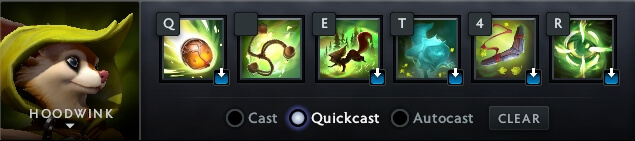
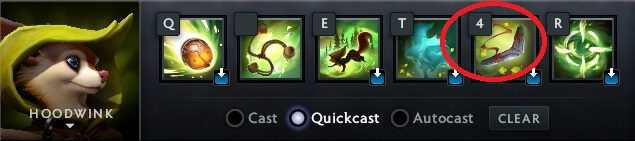
.

Changed region(s): [[0.6882, 0.0, 0.8677, 0.5957]]

diff --git a/web/main.min.css b/web/main.min.css
@@ -1,1 +1,1 @@
-.scrolldown-arrow{position:relative;margin-bottom:2rem;margin-top:0;width:24px;height:24px;border-left:3px solid #777;border-bottom:3px solid #777;animation:bounce 3.5s infinite;margin-left:auto;margin-right:auto}.scrolldown-arrow:hover{opacity:1}@keyframes bounce{0%,100%,20%,50%,80%{transform:translateX(-50%) translateY(0) rotate(-45deg)}40%{transform:translateX(-50%) translateY(.5rem) rotate(-45deg)}60%{transform:translateX(-50%) translateY(.25rem) rotate(-45deg)}}html{box-sizing:border-box;overflow-x:hidden}*,::after,::before{box-sizing:inherit}body{margin:0 auto;padding:0;-webkit-font-smoothing:antialiased;background-color:#121212;color:#e0e0e0;overflow-x:hidden;font-family:Inter}img{display:flex;border:1px solid #333;border-radius:5px;box-shadow:inset 0 -.5rem .5rem -.5rem rgba(110,110,110,.5);margin-top:4em;margin-bottom:4rem;margin-left:auto;margin-right:auto;max-width:100%}.nowrap{white-space:nowrap}.red{color:red;font-weight:600}.smaller{font-size:65%}.magnifiable{cursor:zoom-in;transition:transform .2s ease-in-out;width:inherit}.magnifiable:hover{transform:scale(1.02)}.magnify-overlay{position:fixed;top:0;left:0;width:100%;height:100%;background-color:rgba(0,0,0,.8);display:flex;justify-content:center;align-items:center;z-index:1000;opacity:0;visibility:hidden;transition:opacity .3s ease-in-out,visibility .3s ease-in-out;cursor:zoom-out}.magnify-overlay.active{opacity:1;visibility:visible}.magnify-overlay img{max-width:90%;max-height:90%;object-fit:contain;box-shadow:0 0 20px rgba(0,0,0,.7);transform:scale(.8);transition:transform .3s ease-out}.magnify-overlay.active img{transform:scale(1)}.heroicon{border:1px solid #333;box-shadow:inset 0 -.5rem .5rem -.5rem rgba(110,110,110,.5);display:inline-flex;margin-left:.5rem;margin-right:.5rem;height:36px;margin-top:0;margin-bottom:0;vertical-align:middle}.lazy-section{min-height:400px}h1{font-size:2.5rem;font-weight:600;line-height:1.2;color:gold;margin-bottom:10rem;margin-top:15rem;padding-left:10%;padding-right:10%}main{margin:0 0;padding:0 0;text-align:center;background:linear-gradient(to bottom,#121212,#212121);box-shadow:inset 0 -.5rem .5rem -.5rem rgba(0,0,0,.5)}.wrap-section-block{overflow:hidden;color:#f0f0f0;background-image:radial-gradient(circle at top center,rgba(155,155,155,.15) 0,transparent 25rem),linear-gradient(to bottom,#151515,#101010);background-repeat:no-repeat;margin:2rem auto;margin-bottom:5rem;width:calc(100% - 2%);max-width:1000px;padding-left:5em;padding-right:5em;padding-top:3em;padding-bottom:2em;border:1px solid #333;border-radius:4rem;border-top-left-radius:.75rem;border-top-right-radius:.75rem;box-shadow:0 .2rem .5rem rgba(0,0,0,.9),0 1rem 1.5rem -.5rem rgba(0,0,0,.9)}.wrap-section-block h2{font-size:2.4rem;font-weight:600;margin-top:0;margin-bottom:1.25em;color:gold;border-bottom:1px solid #333;padding-bottom:.75em}.wrap-section-block p{display:block;line-height:2em;color:#fdfdfd;align-items:baseline;text-align:left;vertical-align:baseline;flex:0 0 190px;font-size:1.1rem}.wrap-section-block ul{display:block;list-style-type:none;padding:5%;border:1px solid #33333333;box-shadow:inset 0 4px 8px rgba(0,0,0,.3);border-radius:20px;overflow:hidden;width:calc(100% - 1%);background-color:#181818;margin-top:1.5rem;margin-bottom:1.5rem;text-align:left}.wrap-section-block li{margin-bottom:1rem;margin-top:1rem;color:#fdfdfd;display:flex;align-items:baseline;text-align:left}.wrap-section-block li b{font-weight:700;flex:0 0 220px}.wrap-section-block act:first-child,.wrap-section-block kbd:first-child,.wrap-section-block kbmod:first-child,.wrap-section-block spell:first-child{margin-left:0}:root act,:root kbd,:root kbmod,:root spell{display:inline-block;border-radius:.3rem;padding:.5em .7em;margin-left:.1rem;margin-right:.1rem;font-family:monospace;line-height:1.1;box-shadow:.1rem .1rem .2rem rgba(0,0,0,.5),inset 0 .05rem .1rem rgba(255,255,255,.1);vertical-align:middle;font-size:18px}:root kbd{background-color:#161616;border:1px solid #272727;color:#00ced1;gap:1em}:root kbd:hover{background-color:#272727;border-color:#272727;cursor:pointer}:root kbmod{background-color:#161616;border:1px solid #272727;color:#00ced1;min-width:3.5em;text-align:center}:root kbmod:hover{background-color:#272727;border-color:#272727;cursor:pointer}:root act{background-color:#222242;border:1px solid #222242;border-radius:.2rem;color:#aaced1;text-align:center}:root act:hover{background-color:#323252;border-color:#222242;cursor:pointer}:root spell{background-color:#112;border:1px solid #223;border-radius:.2rem;color:#aaced1;text-align:center;margin-right:-.7rem;z-index:-10}:root spell:hover{background-color:#212132;border-color:#212132;cursor:pointer}@media (max-width:600px){:root act,:root kbd,:root kbmod,:root spell{font-size:14px}h1{font-size:2rem;margin-top:5em}.wrap-section-block{overflow:hidden;padding-left:2%;padding-right:2%;padding-top:2em;font-size:.9rem}.wrap-section-block p{overflow:hidden;padding-left:3.5%;padding-right:3.5%;font-size:14px;margin-bottom:1rem}.wrap-section-block h2{font-size:2rem}.wrap-section-block ul{overflow:scroll}.wrap-section-block li b{flex:0 0 45%;font-size:14px}img{margin-top:2rem;margin-bottom:2rem}}footer{font-size:.9em;text-align:center;color:#bdbdbd;background-color:#121212;box-shadow:inset 0 .5rem .5rem -.5rem rgba(0,0,0,.5);border-top:1px solid #333}.separator{border-top:1px solid #333}.mt1{margin-top:1em}.mt2{margin-top:2em}.mt4{margin-top:4em}.navbar{position:fixed;top:0;left:0;width:100%;height:3rem;min-height:3.25rem;background-color:#222;color:#f5f5f5;display:flex;align-items:center;justify-content:space-between;z-index:100;opacity:0;visibility:hidden;box-sizing:border-box;flex-wrap:wrap;max-width:100%;letter-spacing:.5px;padding:0 1rem}.navbar a{color:#f5f5f5;font-weight:300;text-decoration:none;display:flex;align-items:center;padding-left:1rem;padding-right:1rem;flex-shrink:1;transition:background-color .2s ease;min-width:0;height:3rem;min-height:3rem}.navbar a:hover{background-color:#333}.navbar.scrolled{opacity:1;visibility:visible}.navbar .logo{font-size:2rem;font-weight:800;color:gold;letter-spacing:-.08em;text-shadow:0 .3rem .6rem rgba(0,0,0,.5);text-decoration:none;background:0 0;border:none;padding:0;cursor:pointer;height:auto;display:flex;align-items:center}.navbar .logo:hover{color:#ff0;cursor:pointer}.navbar-links{display:flex;align-items:center}.navbar-links a{margin-left:1rem}.navbar-links a:first-child{margin-left:0}@media (max-width:600px){.navbar{justify-content:center;height:2rem;min-height:2rem;padding:0}.navbar a{font-size:1em;padding-bottom:0;padding-top:0;min-height:0;height:0}.navbar .logo{display:none}}.donate-overlay{display:none;position:fixed;top:0;left:0;width:100%;height:100%;background-color:rgba(0,0,0,.85);justify-content:center;align-items:center;z-index:9999}.donate-panel{background-color:#2a2a2a;border-radius:12px;padding:30px 20px;width:90%;max-width:420px;box-sizing:border-box;box-shadow:0 0 20px rgba(0,0,0,.5);text-align:center;display:flex;flex-direction:column;align-items:center}.donate-panel a.button{display:flex;justify-content:center;align-items:center;background-color:#fff;color:#222;text-decoration:none;padding:12px 20px;margin:15px auto 10px;border-radius:8px;font-weight:700;transition:all .2s ease;width:100%;max-width:270px;height:40px;box-sizing:border-box}.donate-panel a.button:hover{background-color:#eaeaea}.donate-panel img.qr{width:200px;height:200px;margin:10px auto 30px;display:block;border-radius:8px;object-fit:contain}@media (max-width:480px){.donate-panel img.qr{width:160px;height:160px}.donate-panel a.button{font-size:14px;padding:10px}}.table-of-contents{overflow:hidden;color:#f0f0f0;background:radial-gradient(circle at top center,rgba(155,155,155,.15) 0,transparent 25rem),linear-gradient(to bottom,#151515,#101010);margin:2rem auto 5rem;width:calc(100% - 2%);max-width:600px;padding:3em 5em 2em;border:1px solid #333;border-radius:4rem 4rem .75rem .75rem;box-shadow:0 .2rem .5rem rgba(0,0,0,.9),0 1rem 1.5rem -.5rem rgba(0,0,0,.9)}.table-of-contents h2{font-size:2.4rem;font-weight:600;margin:0 0 1.25em;color:gold;border-bottom:1px solid #333;padding-bottom:.75em}.table-of-contents p{line-height:2em;color:#fdfdfd;text-align:left;font-size:1.1rem}.table-of-contents ul{list-style:none;padding:5%;border:1px solid #3333;box-shadow:inset 0 4px 8px rgba(0,0,0,.3);border-radius:20px;background:#181818;margin:1.5rem 0}.table-of-contents li{margin:1rem 0;color:#fdfdfd;display:flex;align-items:baseline}.table-of-contents li b{font-weight:700;flex:0 0 50px}.table-of-contents li a{color:inherit;text-decoration:none}.table-of-contents li a:hover{text-decoration:underline}@media (max-width:600px){.table-of-contents{overflow:scroll;margin:2rem auto 5rem;padding:2em 1em 1em;border-radius:2rem 2rem .75rem .75rem}.table-of-contents h2{font-size:2rem}}
+.scrolldown-arrow{position:relative;margin-bottom:2rem;margin-top:0;width:24px;height:24px;border-left:3px solid #777;border-bottom:3px solid #777;animation:bounce 3.5s infinite;margin-left:auto;margin-right:auto}.scrolldown-arrow:hover{opacity:1}@keyframes bounce{0%,100%,20%,50%,80%{transform:translateX(-50%) translateY(0) rotate(-45deg)}40%{transform:translateX(-50%) translateY(.5rem) rotate(-45deg)}60%{transform:translateX(-50%) translateY(.25rem) rotate(-45deg)}}html{box-sizing:border-box;overflow-x:hidden}*,::after,::before{box-sizing:inherit}body{margin:0 auto;padding:0;-webkit-font-smoothing:antialiased;background-color:#121212;color:#e0e0e0;overflow-x:hidden;font-family:Inter}img{display:flex;border:1px solid #333;border-radius:5px;box-shadow:inset 0 -.5rem .5rem -.5rem rgba(110,110,110,.5);margin-top:4em;margin-bottom:4rem;margin-left:auto;margin-right:auto;max-width:100%}.nowrap{white-space:nowrap}.red{color:red;font-weight:600}.smaller{font-size:65%}.magnifiable{cursor:zoom-in;transition:transform .2s ease-in-out;width:inherit}.magnifiable:hover{transform:scale(1.02)}.magnify-overlay{position:fixed;top:0;left:0;width:100%;height:100%;background-color:rgba(0,0,0,.8);display:flex;justify-content:center;align-items:center;z-index:1000;opacity:0;visibility:hidden;transition:opacity .3s ease-in-out,visibility .3s ease-in-out;cursor:zoom-out}.magnify-overlay.active{opacity:1;visibility:visible}.magnify-overlay img{max-width:90%;max-height:90%;object-fit:contain;box-shadow:0 0 20px rgba(0,0,0,.7);transform:scale(.8);transition:transform .3s ease-out}.magnify-overlay.active img{transform:scale(1)}.heroicon{border:1px solid #333;box-shadow:inset 0 -.5rem .5rem -.5rem rgba(110,110,110,.5);display:inline-flex;margin-left:.5rem;height:36px;margin-top:0;margin-bottom:0;vertical-align:middle}.lazy-section{min-height:400px}h1{font-size:2.5rem;font-weight:600;line-height:1.2;color:gold;margin-bottom:10rem;margin-top:15rem;padding-left:10%;padding-right:10%}main{margin:0 0;padding:0 0;text-align:center;background:linear-gradient(to bottom,#121212,#212121);box-shadow:inset 0 -.5rem .5rem -.5rem rgba(0,0,0,.5)}.wrap-section-block{overflow:hidden;color:#f0f0f0;background-image:radial-gradient(circle at top center,rgba(155,155,155,.15) 0,transparent 25rem),linear-gradient(to bottom,#151515,#101010);background-repeat:no-repeat;margin:2rem auto;margin-bottom:5rem;width:calc(100% - 2%);max-width:1000px;padding-left:5em;padding-right:5em;padding-top:3em;padding-bottom:2em;border:1px solid #333;border-radius:4rem;border-top-left-radius:.75rem;border-top-right-radius:.75rem;box-shadow:0 .2rem .5rem rgba(0,0,0,.9),0 1rem 1.5rem -.5rem rgba(0,0,0,.9)}.wrap-section-block h2{font-size:2.4rem;font-weight:600;margin-top:0;margin-bottom:1.25em;color:gold;border-bottom:1px solid #333;padding-bottom:.75em}.wrap-section-block p{display:block;line-height:2em;color:#fdfdfd;align-items:baseline;text-align:left;vertical-align:baseline;flex:0 0 190px;font-size:1.1rem}.wrap-section-block ul{display:block;list-style-type:none;padding:5%;border:1px solid #33333333;box-shadow:inset 0 4px 8px rgba(0,0,0,.3);border-radius:20px;overflow:hidden;width:calc(100% - 1%);background-color:#181818;margin-top:1.5rem;margin-bottom:1.5rem;text-align:left}.wrap-section-block li{margin-bottom:1rem;margin-top:1rem;color:#fdfdfd;display:flex;align-items:baseline;text-align:left}.wrap-section-block li b{font-weight:700;flex:0 0 220px}.wrap-section-block act:first-child,.wrap-section-block kbd:first-child,.wrap-section-block kbmod:first-child,.wrap-section-block spell:first-child{margin-left:0}:root act,:root kbd,:root kbmod,:root spell{display:inline-block;border-radius:.3rem;padding:.5em .7em;margin-left:.1rem;margin-right:.1rem;font-family:monospace;line-height:1.1;box-shadow:.1rem .1rem .2rem rgba(0,0,0,.5),inset 0 .05rem .1rem rgba(255,255,255,.1);vertical-align:middle;font-size:18px}:root kbd{background-color:#161616;border:1px solid #272727;color:#00ced1;gap:1em}:root kbd:hover{background-color:#272727;border-color:#272727;cursor:pointer}:root kbmod{background-color:#161616;border:1px solid #272727;color:#00ced1;min-width:3.5em;text-align:center}:root kbmod:hover{background-color:#272727;border-color:#272727;cursor:pointer}:root act{background-color:#222242;border:1px solid #222242;border-radius:.2rem;color:#aaced1;text-align:center}:root act:hover{background-color:#323252;border-color:#222242;cursor:pointer}:root spell{background-color:#112;border:1px solid #223;border-radius:.2rem;color:#aaced1;text-align:center;margin-right:-.7rem;z-index:-10}:root spell:hover{background-color:#212132;border-color:#212132;cursor:pointer}@media (max-width:600px){:root act,:root kbd,:root kbmod,:root spell{font-size:14px}h1{font-size:2rem;margin-top:5em}.wrap-section-block{overflow:hidden;padding-left:2%;padding-right:2%;padding-top:2em;font-size:.9rem}.wrap-section-block p{overflow:hidden;padding-left:3.5%;padding-right:3.5%;font-size:14px;margin-bottom:1rem}.wrap-section-block h2{font-size:2rem}.wrap-section-block ul{overflow:scroll}.wrap-section-block li b{flex:0 0 45%;font-size:14px}img{margin-top:2rem;margin-bottom:2rem}}footer{font-size:.9em;text-align:center;color:#bdbdbd;background-color:#121212;box-shadow:inset 0 .5rem .5rem -.5rem rgba(0,0,0,.5);border-top:1px solid #333}.separator{border-top:1px solid #333}.mt1{margin-top:1em}.mt2{margin-top:2em}.mt4{margin-top:4em}.navbar{position:fixed;top:0;left:0;width:100%;height:3rem;min-height:3.25rem;background-color:#222;color:#f5f5f5;display:flex;align-items:center;justify-content:space-between;z-index:100;opacity:0;visibility:hidden;box-sizing:border-box;flex-wrap:wrap;max-width:100%;letter-spacing:.5px;padding:0 1rem}.navbar a{color:#f5f5f5;font-weight:300;text-decoration:none;display:flex;align-items:center;padding-left:1rem;padding-right:1rem;flex-shrink:1;transition:background-color .2s ease;min-width:0;height:3rem;min-height:3rem}.navbar a:hover{background-color:#333}.navbar.scrolled{opacity:1;visibility:visible}.navbar .logo{font-size:2rem;font-weight:800;color:gold;letter-spacing:-.08em;text-shadow:0 .3rem .6rem rgba(0,0,0,.5);text-decoration:none;background:0 0;border:none;padding:0;cursor:pointer;height:auto;display:flex;align-items:center}.navbar .logo:hover{color:#ff0;cursor:pointer}.navbar-links{display:flex;align-items:center}.navbar-links a{margin-left:1rem}.navbar-links a:first-child{margin-left:0}@media (max-width:600px){.navbar{justify-content:center;height:2rem;min-height:2rem;padding:0}.navbar a{font-size:1em;padding-bottom:0;padding-top:0;min-height:0;height:0}.navbar .logo{display:none}}.donate-overlay{display:none;position:fixed;top:0;left:0;width:100%;height:100%;background-color:rgba(0,0,0,.85);justify-content:center;align-items:center;z-index:9999}.donate-panel{background-color:#2a2a2a;border-radius:12px;padding:30px 20px;width:90%;max-width:420px;box-sizing:border-box;box-shadow:0 0 20px rgba(0,0,0,.5);text-align:center;display:flex;flex-direction:column;align-items:center}.donate-panel a.button{display:flex;justify-content:center;align-items:center;background-color:#fff;color:#222;text-decoration:none;padding:12px 20px;margin:15px auto 10px;border-radius:8px;font-weight:700;transition:all .2s ease;width:100%;max-width:270px;height:40px;box-sizing:border-box}.donate-panel a.button:hover{background-color:#eaeaea}.donate-panel img.qr{width:200px;height:200px;margin:10px auto 30px;display:block;border-radius:8px;object-fit:contain}@media (max-width:480px){.donate-panel img.qr{width:160px;height:160px}.donate-panel a.button{font-size:14px;padding:10px}}.table-of-contents{overflow:hidden;color:#f0f0f0;background:radial-gradient(circle at top center,rgba(155,155,155,.15) 0,transparent 25rem),linear-gradient(to bottom,#151515,#101010);margin:2rem auto 5rem;width:calc(100% - 2%);max-width:600px;padding:3em 5em 2em;border:1px solid #333;border-radius:4rem 4rem .75rem .75rem;box-shadow:0 .2rem .5rem rgba(0,0,0,.9),0 1rem 1.5rem -.5rem rgba(0,0,0,.9)}.table-of-contents h2{font-size:2.4rem;font-weight:600;margin:0 0 1.25em;color:gold;border-bottom:1px solid #333;padding-bottom:.75em}.table-of-contents p{line-height:2em;color:#fdfdfd;text-align:left;font-size:1.1rem}.table-of-contents ul{list-style:none;padding:5%;border:1px solid #3333;box-shadow:inset 0 4px 8px rgba(0,0,0,.3);border-radius:20px;background:#181818;margin:1.5rem 0}.table-of-contents li{margin:1rem 0;color:#fdfdfd;display:flex;align-items:baseline}.table-of-contents li b{font-weight:700;flex:0 0 50px}.table-of-contents li a{color:inherit;text-decoration:none}.table-of-contents li a:hover{text-decoration:underline}@media (max-width:600px){.table-of-contents{overflow:scroll;margin:2rem auto 5rem;padding:2em 1em 1em;border-radius:2rem 2rem .75rem .75rem}.table-of-contents h2{font-size:2rem}}

diff --git a/web/html/section-7-abilities-5-and-6.html b/web/html/section-7-abilities-5-and-6.html
@@ -24,20 +24,26 @@
       <img class="" src="assets/images/options/abilities-phantom-assassin-binds-01.jpg" alt="">
 
       <p class="mt2">
-        Here we moved <span class="nowrap"><spell>Fan of Knives</spell><img class="heroicon" src="assets/images/spellicon/fanofknives.jpg" alt=""></span> from <kbd>T</kbd> to <kbd>R</kbd>, because <span class="nowrap"><spell>Coup De Grace</spell><img class="heroicon" src="assets/images/spellicon/coupdegrace.jpg" alt=""></span> is a passive ability.<br><br>
-        You can't activate it, it's a passive.<br><br>
-        But we just made it easier for ourselves to use <span class="nowrap"><spell>Fan of Knives</spell><img class="heroicon" src="assets/images/spellicon/fanofknives.jpg" alt=""></span>
+        <span class="nowrap"><spell>Сoup De Grace</spell><img class="heroicon" src="assets/images/spellicon/coupdegrace.jpg" alt=""></span> is a passive ability.<br>
+        You can't activate it. It's a passive.<br><br>
+
+        <span class="nowrap"><spell>Сoup De Grace</spell><img class="heroicon" src="assets/images/spellicon/coupdegrace.jpg" alt=""></span> on <kbd>R</kbd> is basically a waste of the key.<br>
+      </p>
+
+      <p class="mt2">
+        So, let's move <span class="nowrap"><spell>Fan of Knives</spell><img class="heroicon" src="assets/images/spellicon/fanofknives.jpg" alt=""></span> to <kbd>R</kbd> instead.<br>
+        We just made it easier for ourselves to use <span class="nowrap"><spell>Fan of Knives</spell><img class="heroicon" src="assets/images/spellicon/fanofknives.jpg" alt=""></span>
       </p>      
 
       <div class="separator mt2"></div>
 
       <p class="mt2">
-        Another example: <span class="nowrap"><spell>Ogre Magi</spell><img class="heroicon" src="assets/images/heroicon/ogremagi.jpg" alt=""></span>
+        Another example, <span class="nowrap"><spell>Ogre Magi</spell><img class="heroicon" src="assets/images/heroicon/ogremagi.jpg" alt=""></span>
       </p>
 
       <p class="mt2">
-        <span class="nowrap"><spell>Multicast</spell><img class="heroicon" src="assets/images/spellicon/multicast.jpg" alt=""></span> is a <i>passive</i>.<br>
-        You can't activate it, it's a passive.
+        <span class="nowrap"><spell>Multicast</spell><img class="heroicon" src="assets/images/spellicon/multicast.jpg" alt=""></span> is a passive ability.<br>
+        You can't activate it.
       </p>
 
       <p>
@@ -47,7 +53,7 @@
       <img class="" src="assets/images/options/abilities-ogremagi-binds.jpg" alt="">
 
       <p>
-        This is reasonable, because both of our 'buff abilities' <span class="nowrap"><spell>Bloodlust</spell><img class="heroicon" src="assets/images/spellicon/bloodlust.jpg" alt=""></span> and <span class="nowrap"><spell>Fire Shield</spell><img class="heroicon" src="assets/images/spellicon/fireshield.jpg" alt=""></span> are next to each other and use great keys.<br>
+        This is reasonable, because both of our 'buff abilities' <span class="nowrap"><spell>Bloodlust</spell><img class="heroicon" src="assets/images/spellicon/bloodlust.jpg" alt=""></span> and <span class="nowrap"><spell>Fire Shield</spell><img class="heroicon" src="assets/images/spellicon/fireshield.jpg" alt=""></span> are next to each other and use very good keys.<br>
       </p>
 
       <p>
@@ -64,6 +70,7 @@
 
       <p class="mt2">
         You don't need <b><u>a great</b></u> key, but you do need <b><u>a</b></u> key.<br>
+        You will use it 3 times at best.
       </p>
 
       <div class="separator mt2"></div>
@@ -75,19 +82,15 @@
       <img class="" src="assets/images/options/abilities-hoodwink-binds-01.jpg" alt=""> 
 
       <p class="mt2">
-        <span class="red">it is possible to bind abilities to control group keys!</span>
-      </p>
-
-      <p class="mt2">
         Despite the fact that we have <act>Control Group 4</act> bound to <kbd>4</kbd>, we can use <kbd>4</kbd> as an ability key!
       </p>
       
       <p class="mt2">
-        That's <i>fantastic news</i>, because most of the time we have no use for this many control groups, so keys like <kbd>3</kbd>, <kbd>4</kbd> and <kbd>5</kbd> are essentially free real estate.
+        <span class="red">It is possible to bind abilities to control group keys!</span>
       </p>
-      
+
       <p class="mt2">
-        This means, <span class="nowrap"><spell>Hoodwink</spell><img class="heroicon" src="assets/images/heroicon/hoodwink.jpg" alt=""></span> — and many other heroes — can get away with <b>0 control groups</b>.<br>
+        That's <i>fantastic</i> news, because most heroes have no use for many control groups, so keys like <kbd>3</kbd>, <kbd>4</kbd> and <kbd>5</kbd> are essentially free real estate.
       </p>
 
       <p class="mt2">
@@ -104,6 +107,32 @@
 
       <p>
         That's pretty comfortable for a hero with 6 active buttons, don't you think?
+      </p>
+
+      <div class="separator mt2"></div>
+
+      <p class="mt2">
+        <span class="red">Please note!</span><br><br>
+        For this to work you <b>must</b> bind the <i>ability itself</i>.<br>
+        Not as a "global" hotkey, but "per hero".<br><br>
+        Like this:
+      </p>      
+
+      <img class="" src="assets/images/options/abilities-hoodwink-binds-04.jpg" alt="">
+
+      <div class="separator mt2"></div>
+
+      <p class="mt2">
+        Now equipped with this new knowledge we can go back to our <span class="nowrap"><spell>Ogre Magi</spell><img class="heroicon" src="assets/images/heroicon/ogremagi.jpg" alt=""></span>
+      </p>
+
+      <img class="" src="assets/images/options/abilities-ogremagi-binds-04.jpg" alt="">
+
+      <img class="" src="assets/images/options/abilities-ogremagi-binds-05.jpg" alt="">
+
+      <p class="mt2">
+        As long as you stick with <kbd>3</kbd> <kbd>4</kbd> <kbd>R</kbd> <kbd>T</kbd> it's hard to miss, really.<br>
+        Play around!
       </p>
 
       <div class="separator mt2"></div>

diff --git a/web/html/section-8-abilities-no-target.html b/web/html/section-8-abilities-no-target.html
@@ -19,7 +19,7 @@
 
   <p class="mt2">
     This is not very intuitive, but...<br>
-    if a 'No Target' ability is bound to <kbd>Q</kbd>, then <kbd>Alt</kbd> + <kbd>Q</kbd> will not fire it.<br>
+    if a 'No Target' ability is bound to <kbd>Q</kbd>, then <kbd>Alt</kbd> + <kbd>Q</kbd> will not fire it.<br><br>
     The input is 'consumed' with no effect.
   </p>
 
